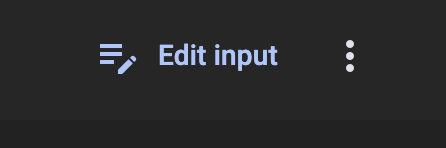
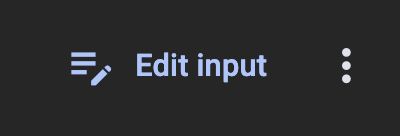
chore: update docs

diff --git a/src/app/components/user-manual/user-manual.component.html b/src/app/components/user-manual/user-manual.component.html
@@ -18,7 +18,7 @@
         <h2 class="text-2xl font-bold">Getting Started</h2>
         <p class="mt-2">On the main page, click the <span class="text-highlight" [ngClass]="{'bg-neutral-700': colorService.isDarkMode(), 'bg-neutral-200': !colorService.isDarkMode()}">Edit Input</span> in the top-right corner. This will open a menu where you can enter your financial information.</p>
         <div class="flex flex-row w-full justify-center">
-            <img [src]="colorService.isDarkMode() ? 'assets/images/edit-input-dark.png' : 'assets/images/edit-input-light.png'" alt="Edit input button" class="image">
+            <img [ngClass]="colorService.isDarkMode() ? 'image-border' : 'image-border-light'" [src]="colorService.isDarkMode() ? 'assets/images/edit-input-dark.png' : 'assets/images/edit-input-light.png'" alt="Edit input button" class="image">
         </div>
     </section>
 
@@ -30,7 +30,7 @@
     <section class="mb-6">
         <h2 class="text-2xl font-bold">Input Fields Explained</h2>
         <p class="mt-2">Here’s a quick overview to help you fill in the input fields:</p>
-        <img [src]="colorService.isDarkMode() ? 'assets/images/inputs-dark.png' : 'assets/images/inputs-light.png'" alt="Input fields button" class="image">
+        <img [ngClass]="colorService.isDarkMode() ? 'image-border' : 'image-border-light'" [src]="colorService.isDarkMode() ? 'assets/images/inputs-dark.png' : 'assets/images/inputs-light.png'" alt="Input fields button" class="image">
         <ul class="list-disc list-inside mt-2">
             <li style="margin-bottom: 0.5rem;">
                 <strong>Type:</strong> Choose the type of entry:
@@ -51,11 +51,12 @@
             </li>
         </ul>
 
+        <!-- TIPS & DID YOU KNOW SECTION -->
         <div class="rounded-2xl p-4 mt-4"
                 [ngClass]="{'bg-neutral-700': colorService.isDarkMode(), 'bg-neutral-200': !colorService.isDarkMode()}"
             >
                 <p class="text-xl font-bold">💡 Did You Know?</p>
-                <img [src]="colorService.isDarkMode() ? 'assets/images/inline-calc-dark.png' : 'assets/images/inline-calc-light.png'" alt="Overview Tabs" class="w-[50%] image">
+                <img [ngClass]="colorService.isDarkMode() ? 'image-border' : 'image-border-light'" [src]="colorService.isDarkMode() ? 'assets/images/inline-calc-dark.png' : 'assets/images/inline-calc-light.png'" alt="Overview Tabs" class="w-[50%] image">
                 <p class="mt-2">
                     You can use inline math operators in the <span class="text-highlight" [ngClass]="{'bg-neutral-700': colorService.isDarkMode(), 'bg-neutral-200': !colorService.isDarkMode()}">Amount</span> field.
                 </p>
@@ -100,14 +101,30 @@
     <!-- SECTION: NOTES FROM ME -->
     <section class="mb-6">
         <h2 class="text-2xl font-bold">Notes from Developer</h2>
-        <p class="mt-2">This app runs locally on your device, so your data stays safe with you! No need to worry about privacy issues.
+        <p class="mt-2">This app runs entirely local on your device, so your data stays safe with you! No need to worry about privacy issues.
             Don’t believe me? Try turning off your internet connection and see if the app still works!
         </p>
         <p>For the technical folks, this app uses LocalStorage to save your data.</p>
         <br>
     </section>
 
-    <footer class="text-center mt-8">
+    <div class="h-10">
+
+    </div>
+
+    <div class="my-8">
+        <mat-divider [ngClass]="colorService.isDarkMode() ? '!border-gray-700' : '!border-gray-300'"></mat-divider>
+    </div>
+
+    <footer class="flex flex-col w-full justify-center items-center text-center gap-2 mt-8">
         <p>&copy; 2024 Easy Sankey. All rights reserved.</p>
+        <p class="mt-4">Have a feature request or encountered a bug? I’d love to hear from you!</p>
+
+
+        <div class="flex flex-row gap-2 items-center">
+            <mat-icon fontSet="material-symbols-outlined">alternate_email</mat-icon>
+            <p><a href="mailto:long.t.nguyen.tech@gmail.com" [ngClass]="{'bg-neutral-700': colorService.isDarkMode(), 'bg-neutral-200': !colorService.isDarkMode()}" class="text-highlight underline">long.t.nguyen.tech&#64;gmail.com</a></p>
+        </div>
+        <p class="mt-4">Thank you for using Easy Sankey!</p>
     </footer>
 </div>

diff --git a/src/app/components/user-manual/user-manual.component.ts b/src/app/components/user-manual/user-manual.component.ts
@@ -2,11 +2,12 @@ import { Component, inject } from '@angular/core';
 import { ColorService } from '../../services/color.service';
 import { CommonModule } from '@angular/common';
 import { MatDividerModule } from '@angular/material/divider';
+import { MatIconModule } from '@angular/material/icon';
 
 @Component({
   selector: 'app-user-manual',
   standalone: true,
-  imports: [CommonModule, MatDividerModule],
+  imports: [CommonModule, MatDividerModule, MatIconModule],
   templateUrl: './user-manual.component.html',
   styleUrl: './user-manual.component.scss'
 })
